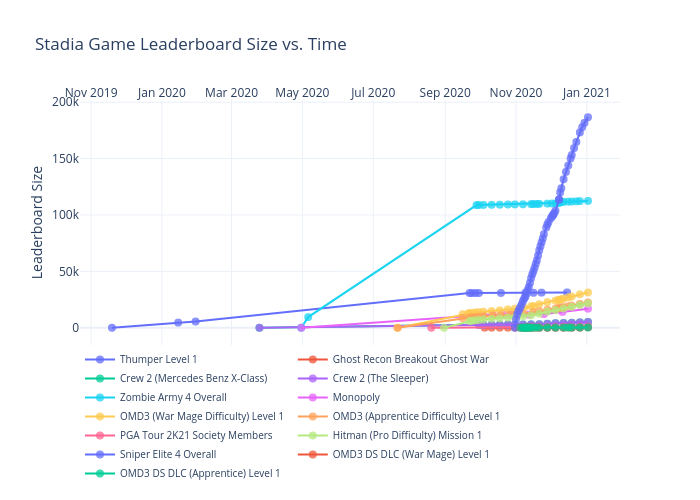
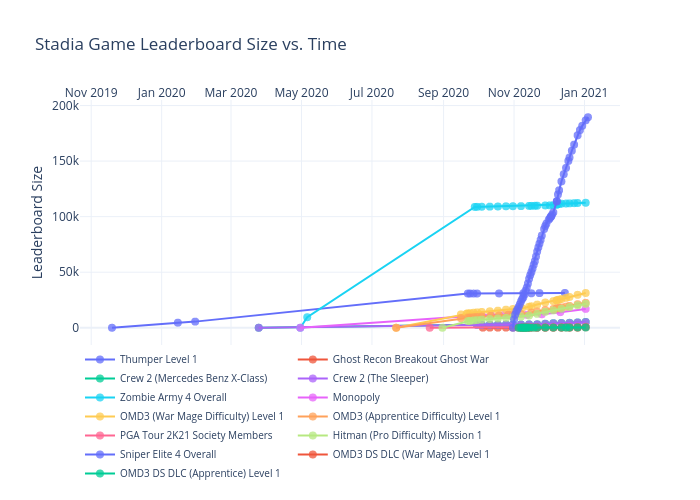
Add files via upload

diff --git a/leaderboards/figure.js b/leaderboards/figure.js
@@ -97,6 +97,7 @@ var figure = {
                 "2020-12-28",
                 "2020-12-30",
                 "2021-01-02",
+                "2021-01-04",
                 "2021-01-09",
                 "2021-01-16",
                 "2021-01-23",
@@ -288,6 +289,7 @@ var figure = {
                 "2020-12-28",
                 "2020-12-30",
                 "2021-01-02",
+                "2021-01-04",
                 "2021-01-09",
                 "2021-01-16",
                 "2021-01-23",
@@ -485,6 +487,7 @@ var figure = {
                 "2020-12-28",
                 "2020-12-30",
                 "2021-01-02",
+                "2021-01-04",
                 "2021-01-09",
                 "2021-01-16",
                 "2021-01-23",
@@ -685,6 +688,7 @@ var figure = {
                 "2020-12-28",
                 "2020-12-30",
                 "2021-01-02",
+                "2021-01-04",
                 "2021-01-09",
                 "2021-01-16",
                 "2021-01-23",
@@ -885,6 +889,7 @@ var figure = {
                 "2020-12-28",
                 "2020-12-30",
                 "2021-01-02",
+                "2021-01-04",
                 "2021-01-09",
                 "2021-01-16",
                 "2021-01-23",
@@ -1085,6 +1090,7 @@ var figure = {
                 "2020-12-28",
                 "2020-12-30",
                 "2021-01-02",
+                "2021-01-04",
                 "2021-01-09",
                 "2021-01-16",
                 "2021-01-23",
@@ -1285,6 +1291,7 @@ var figure = {
                 "2020-12-28",
                 "2020-12-30",
                 "2021-01-02",
+                "2021-01-04",
                 "2021-01-09",
                 "2021-01-16",
                 "2021-01-23",
@@ -1485,6 +1492,7 @@ var figure = {
                 "2020-12-28",
                 "2020-12-30",
                 "2021-01-02",
+                "2021-01-04",
                 "2021-01-09",
                 "2021-01-16",
                 "2021-01-23",
@@ -1685,6 +1693,7 @@ var figure = {
                 "2020-12-28",
                 "2020-12-30",
                 "2021-01-02",
+                "2021-01-04",
                 "2021-01-09",
                 "2021-01-16",
                 "2021-01-23",
@@ -1885,6 +1894,7 @@ var figure = {
                 "2020-12-28",
                 "2020-12-30",
                 "2021-01-02",
+                "2021-01-04",
                 "2021-01-09",
                 "2021-01-16",
                 "2021-01-23",
@@ -2085,6 +2095,7 @@ var figure = {
                 "2020-12-28",
                 "2020-12-30",
                 "2021-01-02",
+                "2021-01-04",
                 "2021-01-09",
                 "2021-01-16",
                 "2021-01-23",
@@ -2177,7 +2188,8 @@ var figure = {
                 "173178",
                 "177871",
                 "181701",
-                "186670"
+                "186670",
+                "189451"
             ],
             "marker": {
                 "size": 8,
@@ -2285,6 +2297,7 @@ var figure = {
                 "2020-12-28",
                 "2020-12-30",
                 "2021-01-02",
+                "2021-01-04",
                 "2021-01-09",
                 "2021-01-16",
                 "2021-01-23",
@@ -2485,6 +2498,7 @@ var figure = {
                 "2020-12-28",
                 "2020-12-30",
                 "2021-01-02",
+                "2021-01-04",
                 "2021-01-09",
                 "2021-01-16",
                 "2021-01-23",
@@ -2597,8 +2611,8 @@ var figure = {
             "side": "top",
             "type": "date",
             "range": [
-                "2019-10-24 15:35:52.6821",
-                "2021-01-27 08:24:07.3179"
+                "2019-10-24 12:37:48.5488",
+                "2021-01-29 11:22:11.4512"
             ],
             "title": {
                 "text": ""
@@ -2608,8 +2622,8 @@ var figure = {
         "yaxis": {
             "type": "linear",
             "range": [
-                -13502.707641196012,
-                200172.707641196
+                -13703.870280881907,
+                203154.8702808819
             ],
             "title": {
                 "text": "Leaderboard Size"
